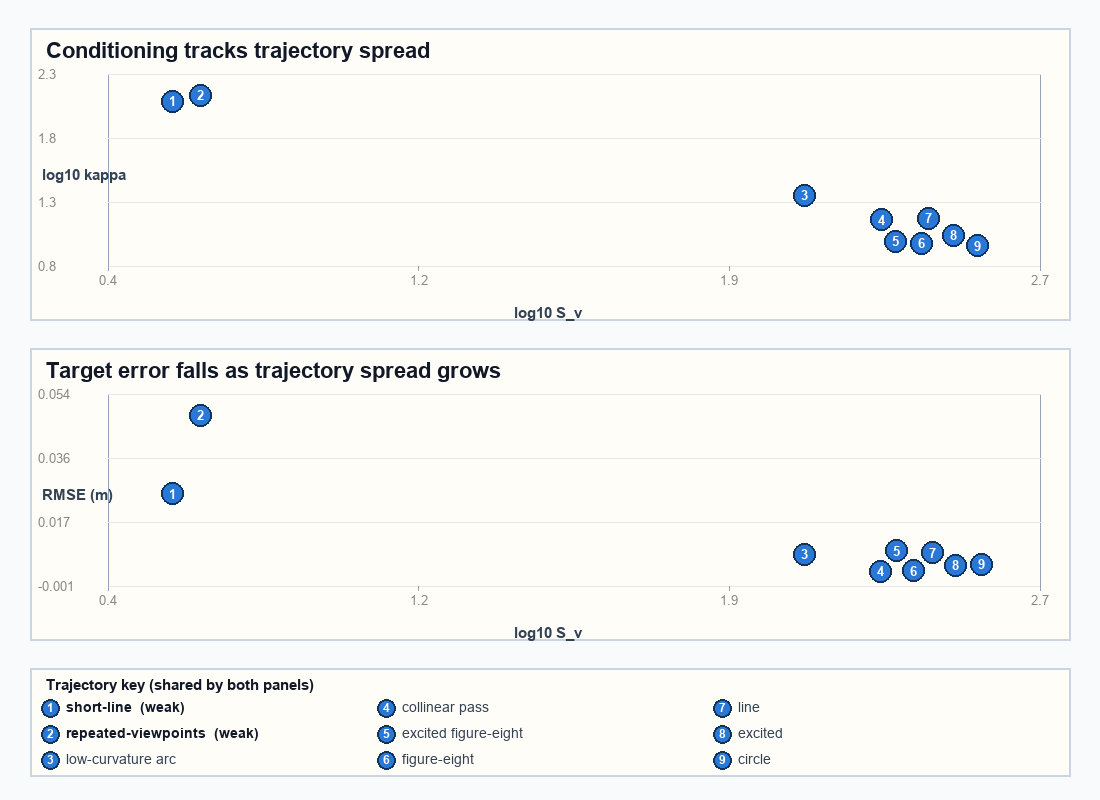
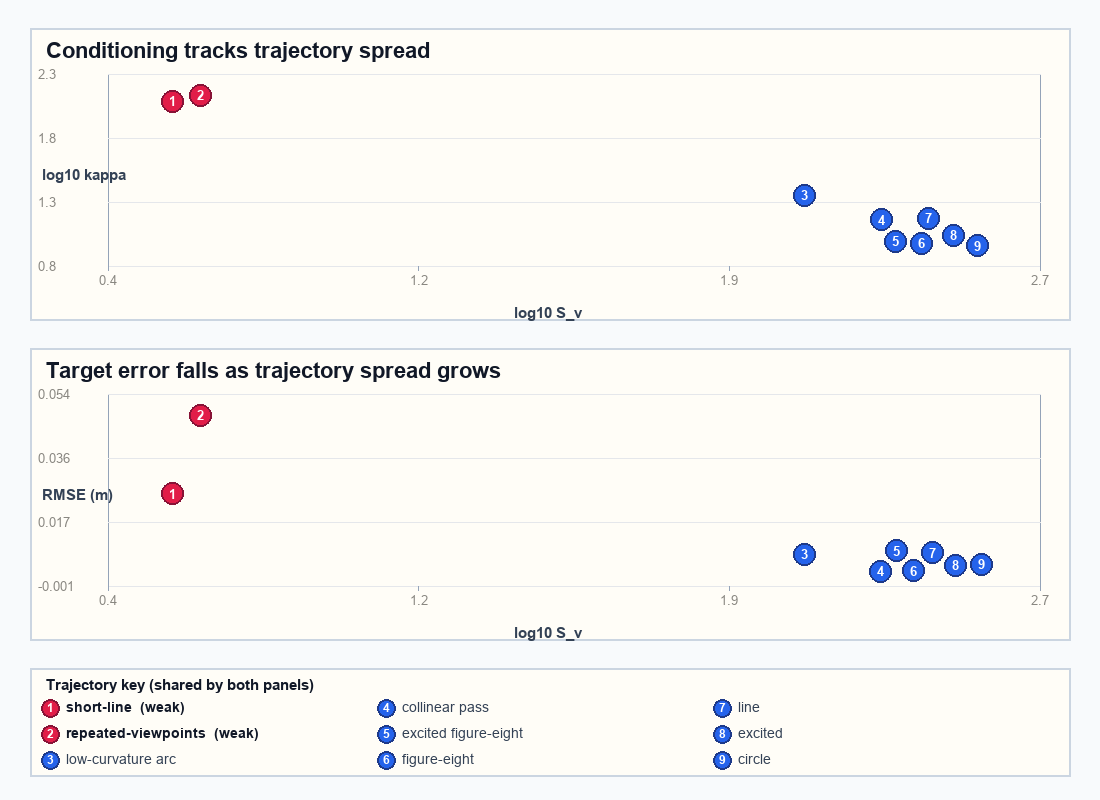
Match the conditioning-summary figure to the paper's new colors
The paper's Fig. 2 now draws the two weakly excited trajectories in red
against the well-excited seven in blue, so the repo's standalone raster
rendering follows: the renderer gains per-class marker colors (aligned
to the paper's exact palette) and the legend chips carry the same
red/blue split. Rendered from the same pinned results CSVs; no data
changed.

diff --git a/scripts/render_conditioning_summary.py b/scripts/render_conditioning_summary.py
@@ -53,8 +53,13 @@ ROOT = Path(__file__).resolve().parents[1]
 RESULTS = ROOT / "results"
 OUT = ROOT / "figures" / "conditioning_summary.png"
 
-MARKER_FILL = "#2a78d6"
-MARKER_OUTLINE = "#12335c"
+# Marker palette, matched to the paper's Fig. 2 colors: the two weakly
+# excited trajectories (see WEAK below) are drawn in the paper's red and
+# every well-excited trajectory in the paper's blue.
+MARKER_FILL = "#2563eb"
+MARKER_OUTLINE = "#1e3a8a"
+WEAK_MARKER_FILL = "#e11d48"
+WEAK_MARKER_OUTLINE = "#881337"
 MARKER_TEXT = "#ffffff"
 
 # Display name for the shared legend, keyed by the trajectory field in the CSVs.
@@ -70,7 +75,8 @@ DISPLAY_NAME = {
     "circle": "circle",
 }
 # The two weakly excited trajectories (full rank but poorly conditioned) are
-# called out in bold in the shared legend.
+# drawn with red markers in both panels and called out in bold in the shared
+# legend.
 WEAK = {"short_line", "repeated_viewpoints"}
 
 
@@ -180,7 +186,7 @@ def declutter(positions: list[list[float]], min_dist: float, iterations: int = 6
             break
 
 
-def draw_numbered_marker(draw: ImageDraw.ImageDraw, px: float, py: float, number: int, f_num: ImageFont.ImageFont) -> None:
+def draw_numbered_marker(draw: ImageDraw.ImageDraw, px: float, py: float, number: int, f_num: ImageFont.ImageFont, weak: bool = False) -> None:
     """Draw a single filled circular marker (radius 11px) at pixel
     coordinates (px, py) with ``number`` centered inside it in white text.
 
@@ -190,11 +196,15 @@ def draw_numbered_marker(draw: ImageDraw.ImageDraw, px: float, py: float, number
         number: the integer label to render inside the marker (matches the
             trajectory's index in the shared legend).
         f_num: font used to render the label text.
+        weak: True renders the weakly-excited red marker colors instead of
+            the default blue.
 
     Returns: None (draws directly onto ``draw``'s underlying image).
     """
     r = 11
-    draw.ellipse((px - r, py - r, px + r, py + r), fill=MARKER_FILL, outline=MARKER_OUTLINE, width=2)
+    draw.ellipse((px - r, py - r, px + r, py + r),
+                 fill=WEAK_MARKER_FILL if weak else MARKER_FILL,
+                 outline=WEAK_MARKER_OUTLINE if weak else MARKER_OUTLINE, width=2)
     text = str(number)
     # Measure the text's bounding box so it can be centered exactly within
     # the circle rather than merely anchored at a corner.
@@ -224,8 +234,9 @@ def draw_scatter(
     Parameters:
         draw: Pillow drawing context to render onto.
         rect: (left, top, right, bottom) pixel bounds of the panel card.
-        points: list of (x, y, number) in data space, where ``number`` is
-            the marker's integer legend index.
+        points: list of (x, y, number, weak) in data space, where ``number``
+            is the marker's integer legend index and ``weak`` selects the
+            red weakly-excited marker colors.
         title: panel title text.
         x_label, y_label: axis label text.
         x_fmt, y_fmt: ``str.format``-style format strings (e.g. "{:.1f}")
@@ -279,7 +290,7 @@ def draw_scatter(
         w = f_tick.getlength(x_fmt.format(value)) if hasattr(f_tick, "getlength") else 20
         draw.text((gx - w / 2, plot_bottom + 7), x_fmt.format(value), fill="#898781", font=f_tick)
 
-    pixel_positions = [list(to_px(x, y)) for x, y, _ in points]
+    pixel_positions = [list(to_px(x, y)) for x, y, _, _ in points]
     # Separate markers that would otherwise overlap (some trajectories have
     # nearly identical S_v/kappa values) before drawing them.
     declutter(pixel_positions, min_dist=26.0)
@@ -289,8 +300,8 @@ def draw_scatter(
     for pos in pixel_positions:
         pos[0] = min(max(pos[0], plot_left + r), plot_right - r)
         pos[1] = min(max(pos[1], plot_top + r), plot_bottom - r)
-    for (px, py), (_, _, number) in zip(pixel_positions, points):
-        draw_numbered_marker(draw, px, py, number, f_num)
+    for (px, py), (_, _, number, weak) in zip(pixel_positions, points):
+        draw_numbered_marker(draw, px, py, number, f_num, weak)
 
     draw.text((left + 12, top + (bottom - top) / 2 - 8), y_label, fill="#334155", font=f_label)
     draw.text(((plot_left + plot_right) / 2 - 60, bottom - 16), x_label, fill="#334155", font=f_label)
@@ -328,12 +339,14 @@ def draw_legend(draw: ImageDraw.ImageDraw, rect: tuple[int, int, int, int], orde
         cx = left + 20 + col * col_w
         cy = top + 40 + row * row_h
         r = 9
-        draw.ellipse((cx - r, cy - r, cx + r, cy + r), fill=MARKER_FILL, outline=MARKER_OUTLINE, width=2)
+        is_weak = name in WEAK
+        draw.ellipse((cx - r, cy - r, cx + r, cy + r),
+                     fill=WEAK_MARKER_FILL if is_weak else MARKER_FILL,
+                     outline=WEAK_MARKER_OUTLINE if is_weak else MARKER_OUTLINE, width=2)
         text = str(i + 1)
         bbox = draw.textbbox((0, 0), text, font=f_num)
         tw, th = bbox[2] - bbox[0], bbox[3] - bbox[1]
         draw.text((cx - tw / 2 - bbox[0], cy - th / 2 - bbox[1]), text, fill=MARKER_TEXT, font=f_num)
-        is_weak = name in WEAK
         label = DISPLAY_NAME[name] + ("  (weak)" if is_weak else "")
         draw.text((cx + 16, cy - 9), label, fill="#111827" if is_weak else "#334155",
                    font=f_entry_bold if is_weak else f_entry)
@@ -365,8 +378,10 @@ def main() -> None:
 
     # Both quantities span orders of magnitude across trajectories, so plot
     # them in log10 space; RMSE (already in meters, a narrower range) is left linear.
-    conditioning_points = [(math.log10(sv), math.log10(kappa), number_by_name[name]) for name, sv, kappa, _ in points]
-    rmse_points = [(math.log10(sv), rmse, number_by_name[name]) for name, sv, _, rmse in points]
+    conditioning_points = [
+        (math.log10(sv), math.log10(kappa), number_by_name[name], name in WEAK) for name, sv, kappa, _ in points
+    ]
+    rmse_points = [(math.log10(sv), rmse, number_by_name[name], name in WEAK) for name, sv, _, rmse in points]
 
     img = Image.new("RGB", (1100, 800), "#f8fafc")
     draw = ImageDraw.Draw(img)
